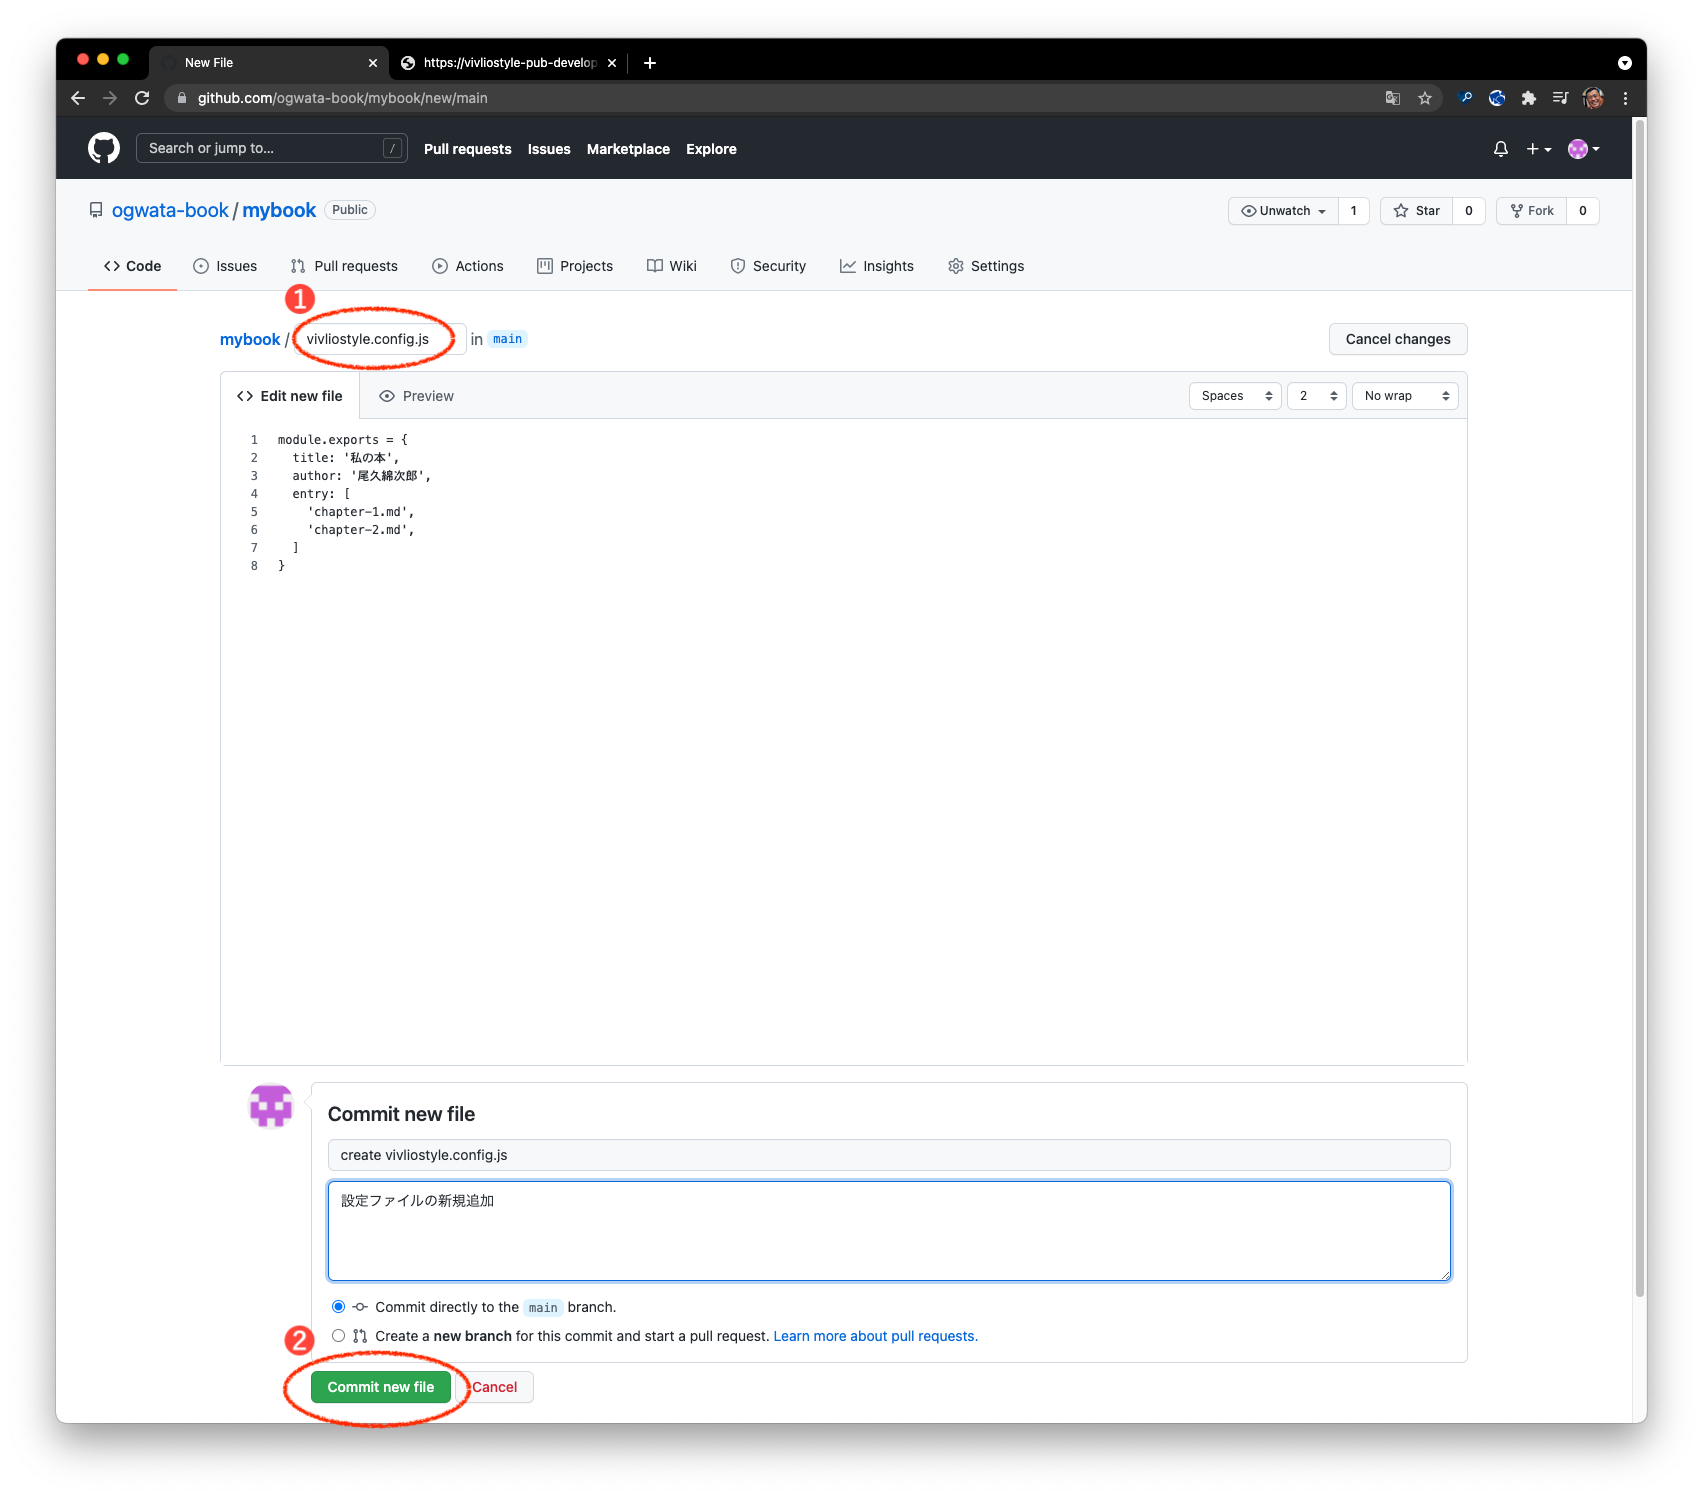
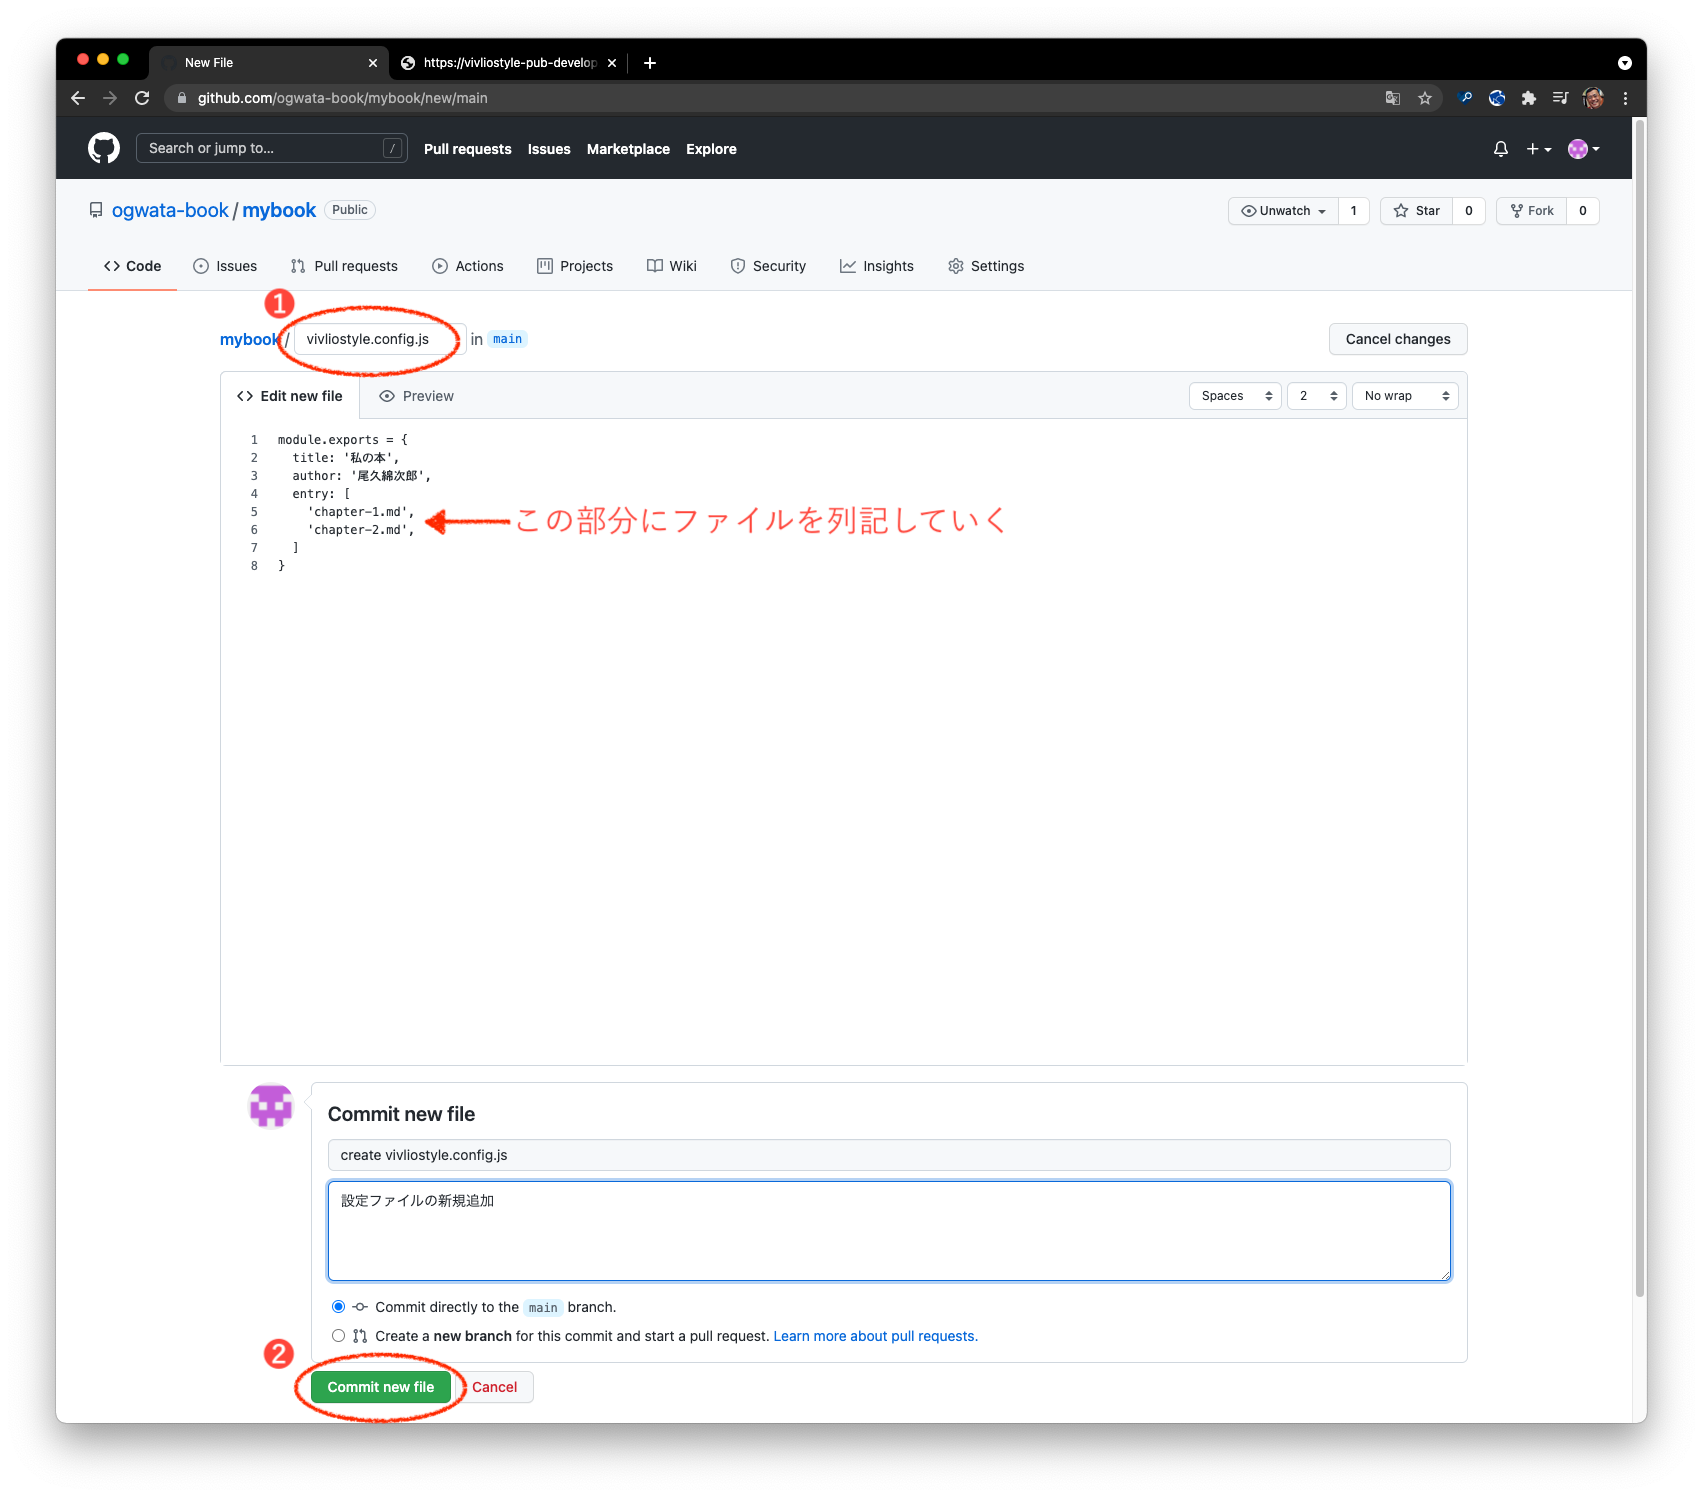
文章・画像修正

diff --git a/ja/file-operation/adding-a-new-file.md b/ja/file-operation/adding-a-new-file.md
@@ -1,6 +1,6 @@
 # 新規ファイルの追加
 
-1. Vivliostyle Pubで表示させるファイルを、GitHubリポジトリに作成します。リポジトリ内にファイルがない場合、下記のような画面が表示されます。赤丸で囲んだ “creating a new file”（新規ファイル作成）をクリックしてください
+1. Vivliostyle Pubで表示させるファイルを、GitHubリポジトリに作成します。リポジトリ内にファイルがない場合、下記のような画面が表示されます。赤丸で囲んだ “creating a new file”（新規ファイル作成）をクリックしてください。文字が小さいので、違う場所をクリックしないよう気をつけてください
 
 ![ ](images/file-operation/adding-a-new-file/fig-1.png)
 
@@ -11,7 +11,7 @@
 
 - ❶ファイル名……新規追加するファイル名を英数字でここに入力してください
 - ❷Edit new fileタブ……ファイルの内容を入力・編集できます
-- ❸Commit名……新規ファイル名を入力すると、ここにそのファイル名が自動的に入力されます（オプション）
+- ❸Commit名……新規ファイル名を入力すると、ここにもそのファイル名が自動的に入力されます（オプション）
 - ❹Commitの説明……追加するファイルの内容、意図など説明をここに書きます（オプション）
 - ❺Commit new file……ファイルの編集が終わったらこのボタンを押して、終了してください
 - ❻Cancel Changes……変更を破棄して終了します
@@ -22,16 +22,16 @@
 ![ ](images/file-operation/adding-a-new-file/fig-3.png)
 
 
-4. リポジトリのトップページ「Code」タブに戻ると、さっき追加した`chapter-1.md`が追加されていることが確認できます。この画面から新規にファイルを追加することもできます。「Add file」（ファイル追加）ボタンをクリックするとメニュー項目が表示されます（赤丸）。その中から「Create new file」（新規ファイル作成）を選択します
+4. リポジトリのトップページ「Code」タブに戻ると、さっき追加した`chapter-1.md`が追加されていることが確認できます（赤矢印）。この画面から新規にファイルを追加することもできます。引き続き、`chapter-2.md`を追加してみましょう。「Add file」（ファイル追加）ボタンをクリックするとメニュー項目が表示されます（赤丸）。その中から「Create new file」（新規ファイル作成）を選択します
 
 ![ ](images/file-operation/adding-a-new-file/fig-4.png)
 
 
-5. 前記「2」と同じエディタ画面に遷移します。❶のカラムにファイル名を記入、仮のファイル内容を書き、終わったら “Commit Changes” ボタン（❷）を押下して確定してください
+5. 前記「2」と同じエディタ画面に遷移します。❶のカラムにファイル名`chapter-2.md`を記入、仮のファイル内容を書き、終わったら “Commit Changes” ボタン（❷）を押下して確定してください
 
 ![ ](images/file-operation/adding-a-new-file/fig-5.png)
 
-6. 最後に設定ファイル`vivliostyle.config.js`を新規作成します。再度、リポジトリのトップページからAdd file」（ファイル追加）ボタンをクリックし、「Create new file」（新規ファイル作成）を選択します
+6. `chapter-2.md`が追加されました（赤矢印）。最後に設定ファイル`vivliostyle.config.js`を新規作成します。再度、リポジトリのトップページからAdd file」（ファイル追加）ボタンをクリックし、「Create new file」（新規ファイル作成）を選択します
 
 ![ ](images/file-operation/adding-a-new-file/fig-6.png)
 
@@ -52,7 +52,10 @@ module.exports = {
   ]
 }
 ```
-`title: `（書名）と`author:`（作者）はオプションですが、ファイル名は必須です。`entry: [`の次の行から、Vivliostyle Pubで表示させたいファイル名をシングルクォート`'　'`で囲み、行末をカンマ`,`で区切って記入していってください。2つ以上のファイルを追加する場合も、この部分にファイルを追記していきます（→[既存ファイルの追加](/ja/file-operation/adding-existing-files.md)）。なお、Vivliostyle Pubでもここで記述した順番で表示されます（→[複数ファイルの並べ替え](/ja/file-operation/reordering-files.md)）
+`title: `（書名）と`author:`（作者）はオプションですが、`entry`のファイル名は必須です。`entry: [`の次の行から、Vivliostyle Pubで表示させたいファイル名をシングルクォート`'　'`で囲み、行末をカンマ`,`で区切って記入していってください。2つ以上のファイルを追加する場合も、この部分にファイルを追記していきます（→[既存ファイルの追加](/ja/file-operation/adding-existing-files.md)）。なお、Vivliostyle Pubはこの部分を参照し、ここで記述された順番どおりに表示します（→[複数ファイルの並べ替え](/ja/file-operation/reordering-files.md)）
+
+- **ご注意**：それぞれの値を囲むシングルクォート`'　'`、値を区切るカンマ`,`をお忘れなく！　間違うとVivliostyle Pubは正しく表示されません。
+
 
 8. `vivliostyle.config.js`が追加されました
 

diff --git a/ja/advance-preparation/get-an-account.md b/ja/advance-preparation/get-an-account.md
@@ -26,18 +26,18 @@
 ![ ](images/advance-preparation/get-an-account/fig-5.png)
 
 
-6. GitHubアカウントのプランを選択。Free（無料）、Teamの2つのプランのうち、自分に合ったプランを選択し（初めて利用するなら “Free” で十分です）、ボタンをクリックしてください
+6. GitHubアカウントのプランを選択。Free（無料）、Teamの2つのプランのうち、自分に合ったプランを選択し（初めて利用するなら “Free” で十分です）、決定ボタンをクリックしてください
 
 ![ ](images/advance-preparation/get-an-account/fig-6.png)
 
-7. 表示されるダッシュボード画面で、“Create repository” をクリック
+7. つづいて表示されるダッシュボード画面で、“Create repository” をクリック
 
 ![ ](images/advance-preparation/get-an-account/fig-7.png)
 
-8. 作成書類を非公開にしたい場合は「Private」に、公開したい場合は「Public」にチェックをいれてください（赤矢印）。次に “Repository name”（リポジトリ名）を英数字で入力。利用可能なリポジトリ名なら緑色のチェックマークが表示され “Create repository” ボタンがアクティブになるのでクリック
+8. 作成書類を非公開にしたい場合は「Private」に、公開したい場合は「Public」にチェックをいれてください（赤矢印）。次に “Repository name”（リポジトリ名）を英数字で入力。リポジトリ名が利用可能なら、緑色の✓マークが表示され “Create repository” ボタンがアクティブになるのでクリックしてください
 
 ![ ](images/advance-preparation/get-an-account/fig-8.png)
 
-9. この画面が表示されたら、リポジトリでの準備作業は終了です。[最初のログインで必要な作業](/ja/advance-preparation/login.md)に進んでください
+9. この画面が表示されたら、リポジトリは無事に作成できました。[最初のログインで必要な作業](/ja/advance-preparation/login.md)に進んでください
 
 ![ ](images/advance-preparation/get-an-account/fig-9.png)

diff --git a/ja/file-operation/adding-existing-files.md b/ja/file-operation/adding-existing-files.md
@@ -11,7 +11,8 @@
 - 上記スクリーンショットではファイルは1つですが、複数ファイルもドロップできます。
 - ただし、すでにリポジトリにファイルがある場合、追加しようとしているものとファイル名が重複しないよう注意してください。その場合は上記画面は表示されず、アップロードできません。
 
-3. 以下の画面に遷移します。内容を確認し、“Commit Changes” ボタン（❸）を押下して、追加を確定してください。“Commit Changes” のカラムはオプションです。必要に応じて記入してください。
+
+3. 以下の画面に遷移します。内容を確認し、“Commit Changes” ボタン（❸）を押下して、追加を確定してください。
 
 ![ ](images/file-operation/adding-existing-files/fig-3.png)
 
@@ -20,7 +21,7 @@
 - ❸……問題がなければ、この “Commit Changes” ボタンを押下してください
 
 
-4. `chapter-3.md`がリポジトリに追加されたことを確認します。次に今追加したファイルを、設定ファイルに追記登録します。`vivliostyle.config.js`（赤矢印）をクリックしてください
+4. `chapter-3.md`がリポジトリに追加されたことを確認します。次に今追加したファイルを、設定ファイルに追記登録します。`vivliostyle.config.js`（赤丸）をクリックしてください
 
 ![ ](images/file-operation/adding-existing-files/fig-4.png)
 
@@ -31,7 +32,7 @@
 6. エディタ画面に遷移しました。赤矢印の部分に下記の雛形をペースとして`chapter-3.md`を追記しましょう。編集が終わったら“Commit Changes” ボタン（赤丸）を押下して、追加を確定してください
 
 ```
-    `chapter-3.md`,
+    'chapter-3.md',
 ```
 
 詳細なエディタ画面の操作方法は下記ページの「2」「3」を参照してください

diff --git a/ja/file-operation/delete-existing-file.md b/ja/file-operation/delete-existing-file.md
@@ -12,7 +12,7 @@
 
 ![ ](images/file-operation/delete-existing-file/fig-3.png)
 
-4. Commit画面に遷移するので、“Commit Changes” ボタン（赤丸）を押下して削除を確定してください。“Commit Changes” のカラムはオプションです。必要に応じて記入してください。
+4. Commit画面に遷移するので、“Commit Changes” ボタン（赤丸）を押下して削除を確定してください
 
 ![ ](images/file-operation/delete-existing-file/fig-4.png)
 
@@ -30,7 +30,7 @@
 ![ ](images/file-operation/delete-existing-file/fig-7.png)
 
 
-8. エディタ画面に遷移します。`entry: [`以降の行（赤丸❶）から`chapter-100.md`を削除ししてください。終わったら “Commit Changes” ボタン（赤丸❷）を押下して変更を確定してください。“Commit Changes” のカラムはオプションです。
+8. エディタ画面に遷移します。`entry: [`以降の行（赤丸❶）から`chapter-100.md`を削除ししてください。終わったら “Commit Changes” ボタン（赤丸❷）を押下して変更を確定してください。“Commit Changes” のカラムはオプションです
 
 ![ ](images/file-operation/delete-existing-file/fig-8.png)
 

diff --git a/ja/advance-preparation/login.md b/ja/advance-preparation/login.md
@@ -21,7 +21,7 @@ https://vivliostyle-pub-develop.vercel.app/
 
 ![ ](images/advance-preparation/login/fig-4.png)
 
-5. この画面が表示されたら、無事にインストールが完了しました。Vivliostyle Pubのウィンドウに切り替えてください（自動では切り替わりません）
+5. この画面が表示されたら、無事にインストールが完了しました。先ほど開いたVivliostyle Pubに切り替えてください（自動では切り替わりません）
 
 ![ ](images/advance-preparation/login/fig-5.png)
 
@@ -37,4 +37,4 @@ https://vivliostyle-pub-develop.vercel.app/
 
 ![ ](images/advance-preparation/login/fig-8.png)
 
-これでリポジトリの準備は完了です。次にリポジトリに書類を追加しましょう。[新規ファイルの追加](/ja/file-operation/adding-a-new-file.md)へ進んでください
+これで事前準備は完了です。次に実際にリポジトリに書類を追加し、Vivliostyle Pubに表示させてみましょう。[新規ファイルの追加](/ja/file-operation/adding-a-new-file.md)へ進んでください

diff --git a/ja/file-operation/renaming-an-existing-file.md b/ja/file-operation/renaming-an-existing-file.md
@@ -8,7 +8,7 @@
 
 ![ ](images/file-operation/renaming-an-existing-file/fig-2.png)
 
-3. エディタ画面に遷移します。ファイル名のコラム（赤丸❶）が編集可能になっています。お好きなファイル名を記入してください。ここでは`chapter-100.md`に変更します。終わったら “Commit Changes” ボタン（赤丸❷）を押下して変更を確定してください。“Commit Changes” のカラムはオプションです。必要に応じて記入してください
+3. エディタ画面に遷移します。ファイル名のコラム（赤丸❶）が編集可能になっています。お好きなファイル名を記入してください。ここでは`chapter-100.md`に変更します。終わったら “Commit Changes” ボタン（赤丸❷）を押下して変更を確定してください
 
 ![ ](images/file-operation/renaming-an-existing-file/fig-3.png)
 

diff --git a/ja/advance-preparation/how-to-create-a-repository.md b/ja/advance-preparation/how-to-create-a-repository.md
@@ -1,10 +1,10 @@
 #  リポジトリの作成方法
 
-1. 自分のGitHubアカウントのトップページ（URLは https://github.com/ の後にあなたのユーザー名を加えたものです）にアクセスし、「Repository」（赤丸）タブをクリック
+1. 自分のGitHubアカウントのトップページ（URLは https://github.com/ の後にあなたのユーザー名を加えたものです）にアクセスし、「Repository」タブ（赤丸）をクリック
 
 ![ ](images/advance-preparation/how-to-create-a-repository/fig-1.png)
 
-2. “New” （赤丸）をクリック
+2. リポジトリを新規作成します。“New” （赤丸）をクリック
 
 ![ ](images/advance-preparation/how-to-create-a-repository/fig-2.png)
 

diff --git a/ja/file-operation/reordering-files.md b/ja/file-operation/reordering-files.md
@@ -19,17 +19,17 @@
 **変更前**
 
 ```
-    `chapter-1.md`
-    `chapter-2.md`
-    `chapter-100.md`,
+    'chapter-1.md',
+    'chapter-2.md',
+    'chapter-100.md',
 ```
 
 **変更後**
 
 ```
-    `chapter-100.md`,
-    `chapter-2.md`
-    `chapter-1.md`
+    'chapter-100.md',
+    'chapter-2.md',
+    'chapter-1.md',
 ```
 
 詳細なエディタ画面の操作方法は下記ページの「2」「3」を、`vivliostyle.config.js`の編集方法は同ページの「7」を参照してください
